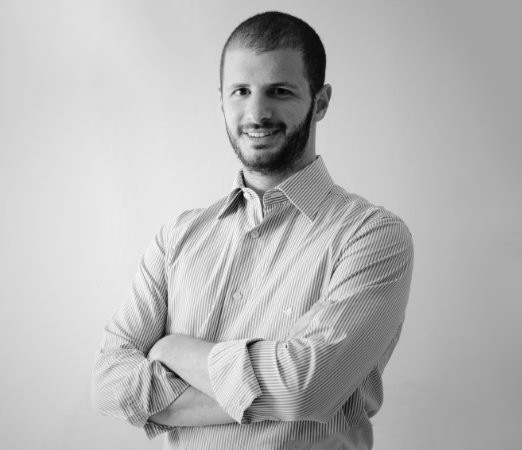
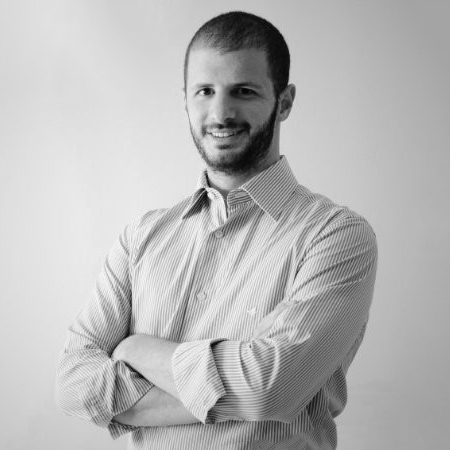
Image fix and paddings

Changed region(s): [[0.1556, 0.0311, 0.84, 1.0], [0.5289, 0.0, 0.56, 0.0311]]

diff --git a/pages/customers/getninjas/index.html b/pages/customers/getninjas/index.html
@@ -54,15 +54,15 @@ plumbers, language teachers, and more. It has 500,000 registered profissionals i
 <section class="bg-primary-lighter pad-t-0">
     <div class="container">
         <div class="row">
-            <div class="col-md-6 text-md-center text-sm-center text-xs-center">
+            <div class="col-md-6 text-md-center text-sm-center text-xs-center pad-t-80 sm-pad-t-0 xs-pad-t-0">
                 <img src="{{ BASE_PATH }}/assets/img/case_studies/bernardo.jpg" class="img-circle" width="493" height="493" class="" alt="">
             </div>
             <div class="col-md-6 lg-pad-l-50 sm-pad-l-15 xs-pad-l-15">
                 <div class="text-left">
                     <h3>The solution.<br>Better data.</h3>
-                    <p>GetNinjas realized pretty quickly that taking control of their data, and having a rich, highly structured data set describing every action that their users (both clients and pros) took, would provide the foundation for meeting both of their growth challenges.</p>
+                    <p>GetNinjas realized that taking control of their data, and having a rich, highly structured data set describing every action that their users took, would provide the foundation for meeting both of their growth challenges.</p>
                     <p>With Snowplow, it was possible to track, in granular detail, every aspect of their customers journey, throughout the customer's entire lifecycle, across all platforms and channels.</p><br>
-                    <p><q><small>“I’m a huge fan of Snowplow!! It’s given us the power and flexibility to collect and analyze data, making smarter product decisions in ways that would be impossible with other tools.”</small></q></p>
+                    <p><q><small>I’m a huge fan of Snowplow!! It’s given us the power and flexibility to collect and analyze data, making smarter product decisions in ways that would be impossible with other tools.</small></q></p>
                     <p class="text-muted"><i>Bernardo Srulzon, CPO, GetNinjas</i></p>
                 </div>
             </div>
